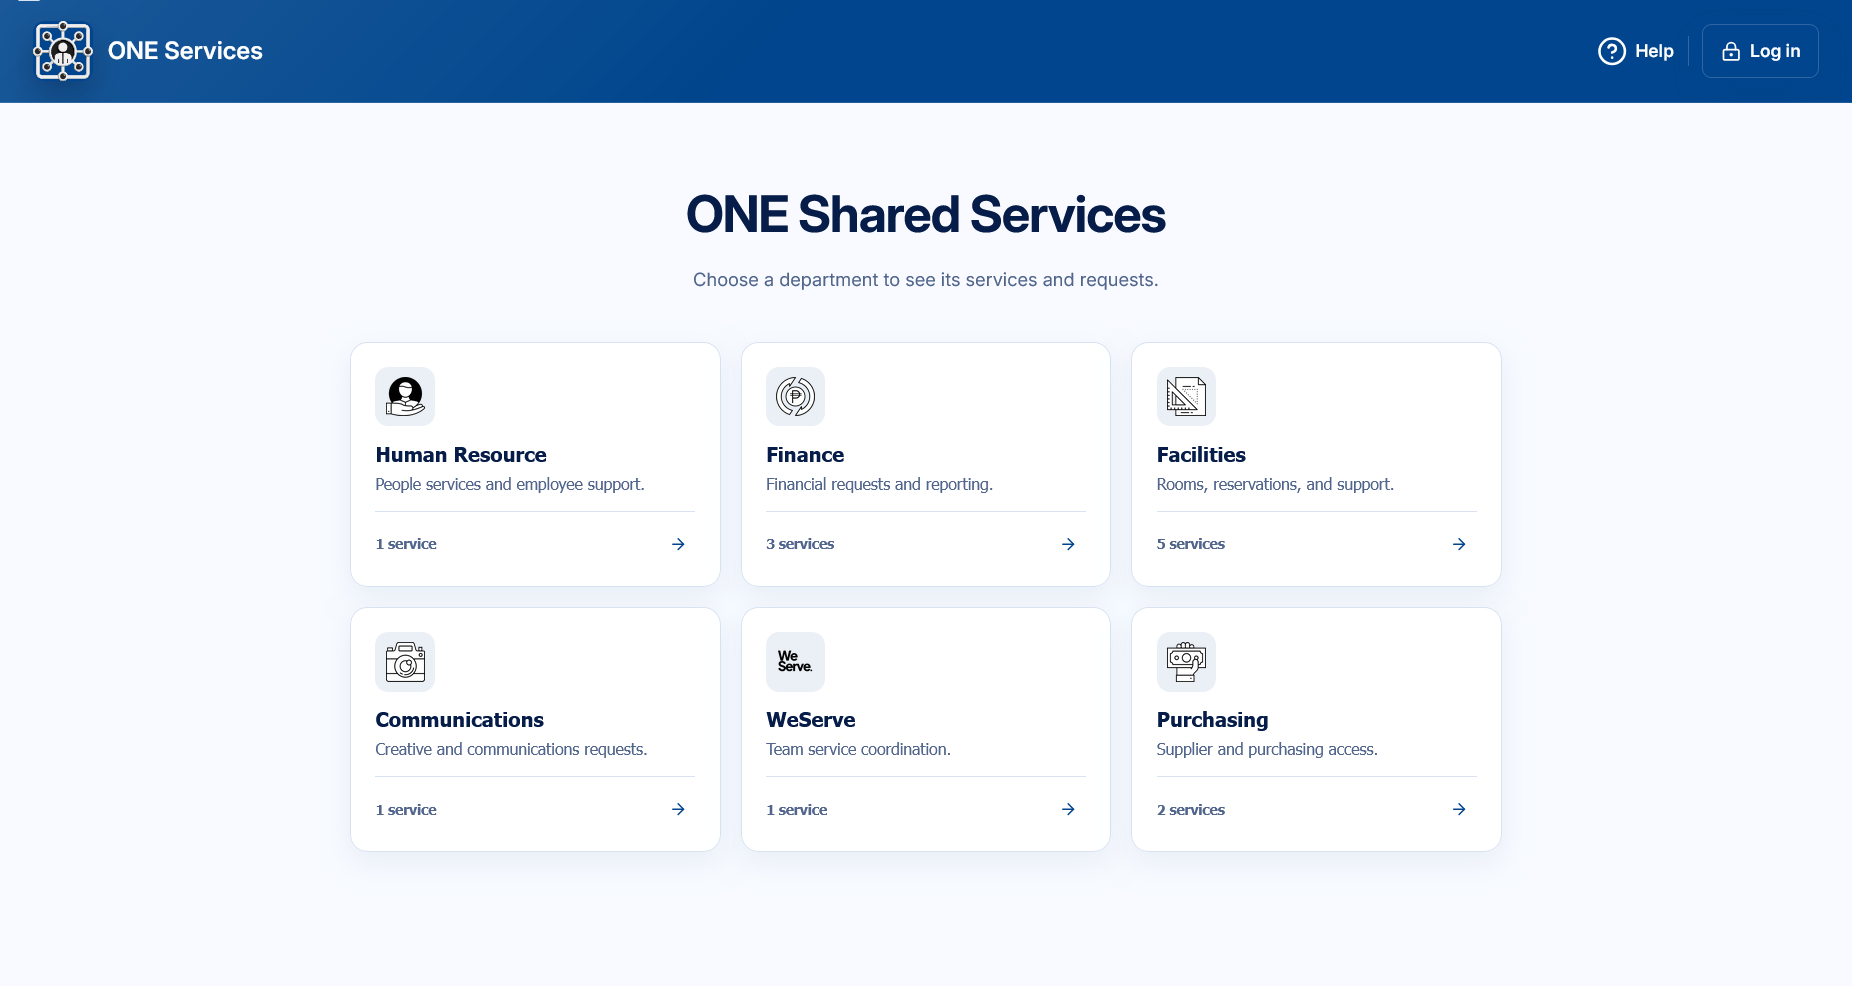
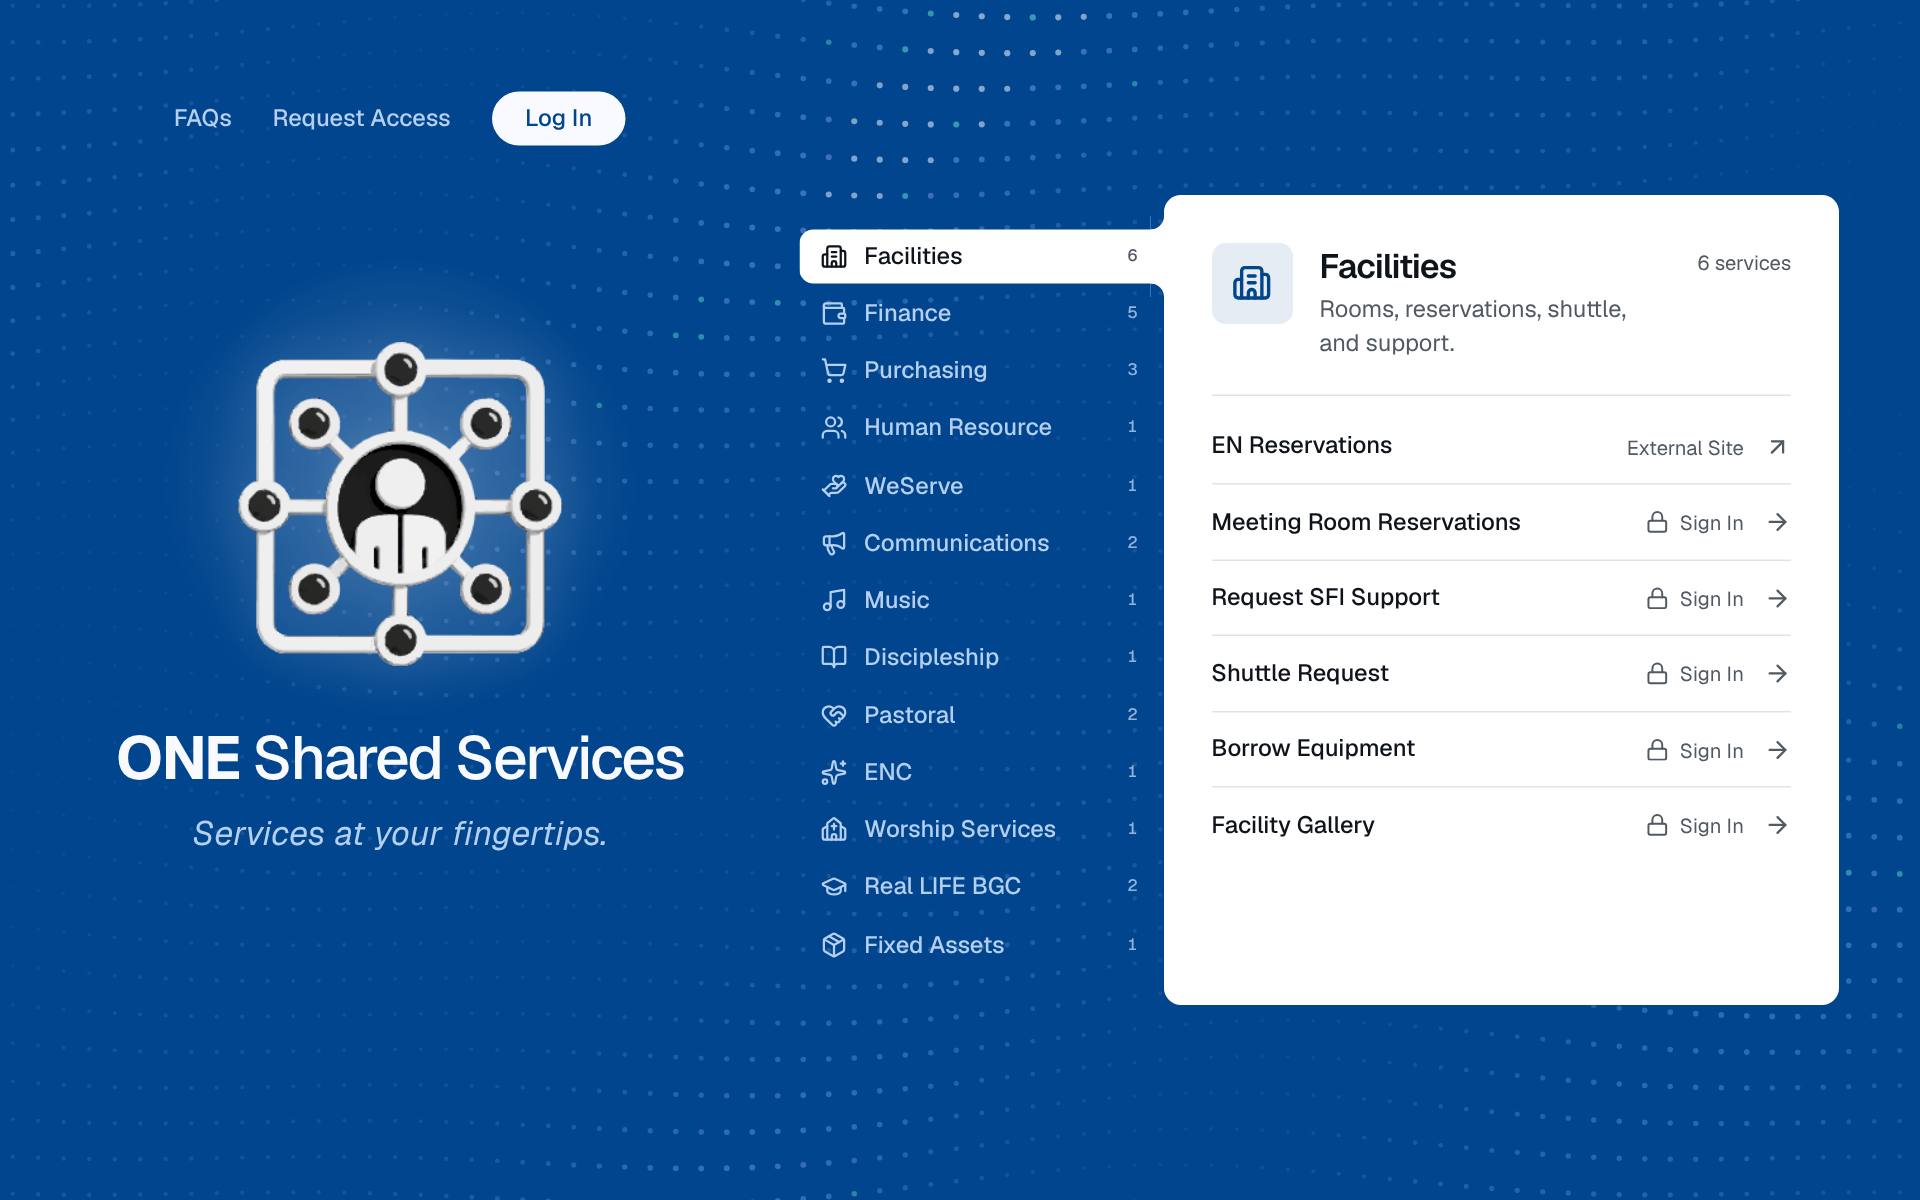
add photos and revamp ui

diff --git a/css/sections.css b/css/sections.css
@@ -131,26 +131,28 @@
   margin-top: 1.5rem;
   flex-shrink: 0;
 }
-/* Flat stats separated by vertical dividers (no card chrome) */
-.stat-grid { gap: 1.75rem 0; margin-top: 0; grid-template-columns: repeat(5, auto); justify-content: space-between; }
-.stat-grid .stat-card { background: none; border: 0; border-radius: 0; box-shadow: none; transform: none; padding: 0 1.25rem; border-left: 1px solid var(--border); }
-.stat-grid .stat-card:nth-child(1) { border-left: 0; padding-left: 0; }
+/* Flat stats, no dividers or card chrome: even gaps separate them (same look as Skills) */
+.stat-grid { gap: 1.75rem 2rem; margin-top: 0; grid-template-columns: repeat(5, auto); justify-content: space-between; }
+.stat-grid .stat-card { background: none; border: 0; border-radius: 0; box-shadow: none; transform: none; padding: 0; }
 .stat-grid .stat-card:hover { transform: none; box-shadow: none; }
 
 /* ════════════════════════════════════
    SKILLS
 ════════════════════════════════════ */
-.skill-group {
+/* Plain typographic columns: no cards, no dividers, no pills. A small label
+   over a vertical list of names. Tools & frameworks is the longest list, so it
+   gets two sub-columns. */
+.skill-cols {
   display: grid;
-  grid-template-columns: 11rem 1fr;
-  gap: 1rem 2rem;
+  grid-template-columns: 1fr 1fr 2fr 1.4fr;
+  gap: 2.5rem 2rem;
   align-items: start;
-  padding: 1.25rem 0;
-  border-top: 1px solid var(--border);
 }
 
-.skill-group:last-child {
-  border-bottom: 1px solid var(--border);
+.skill-group {
+  display: flex;
+  flex-direction: column;
+  gap: 1rem;
 }
 
 .skill-group-label {
@@ -160,20 +162,43 @@
   letter-spacing: var(--ls-normal);
   color: var(--muted);
   margin: 0;
-  padding-top: 0.35rem;
 }
 
 .skill-chips {
   display: flex;
-  flex-wrap: wrap;
-  gap: 0.6rem;
+  flex-direction: column;
+  gap: 0.5rem;
 }
 
-.skill-chips .chip:hover {
+.skill-tools .skill-chips {
+  display: grid;
+  grid-auto-flow: column;
+  grid-template-rows: repeat(6, auto);
+  gap: 0.5rem 2rem;
+}
+
+/* The names are still .chip elements (the entrance animation hangs off them),
+   but here they read as plain text. */
+.skill-chips .chip {
+  padding: 0;
+  border: 0;
+  border-radius: 0;
+  background: none;
+  font-size: var(--fs-lg);
+  letter-spacing: var(--ls-normal);
+  line-height: 1.35;
+}
+
+.skill-group.chipped .skill-chips .chip:hover {
+  background: none;
   color: var(--text);
-  border-color: var(--muted);
-  background: color-mix(in oklab, var(--text) 6%, var(--surface));
-  transform: translateY(-2px);
+  transform: translateX(3px);
+}
+
+@media (max-width: 900px) {
+  .skill-cols { grid-template-columns: 1fr 1fr; }
+  .skill-tools,
+  .skill-learn { grid-column: 1 / -1; }
 }
 
 .proj-tags {
@@ -357,12 +382,9 @@
   .contact-wrap   { grid-template-columns: 1fr; }
   .stat-grid      { grid-template-columns: 1fr 1fr; }
   .stat-grid .stat-card,
-  .stat-grid .stat-card:nth-child(n+4) { grid-column: auto; border-left: 1px solid var(--border); padding-left: 1.25rem; }
-  .stat-grid .stat-card:nth-child(odd) { border-left: 0; padding-left: 0; }
+  .stat-grid .stat-card:nth-child(n+4) { grid-column: auto; padding-left: 0; }
   .stat-grid .stat-card:last-child { grid-column: 1 / -1; }
   .social-grid    { grid-template-columns: 1fr; }
-  .skill-group    { grid-template-columns: 1fr; gap: 0.75rem; }
-  .skill-group-label { padding-top: 0; }
   .hero-name      { font-size: clamp(var(--fs-4xl), 12vw, var(--fs-6xl)); }
   .about-photo-wrap { max-width: 300px; margin: 0 auto; }
 }
@@ -1616,7 +1638,7 @@ display: flex;
 
 .pp-sub { margin-top: clamp(4rem, 7vw, 6rem); }
 .pp-grid { display: grid; grid-template-columns: repeat(3, 1fr); gap: 1.5rem; }
-.pp-card { display: flex; flex-direction: column; text-align: left; background: var(--pp-card); color: var(--text); border: 1px solid var(--pp-line); border-radius: var(--radius-xl); padding: 0; overflow: hidden; cursor: pointer; transition: transform 0.2s ease; }
+.pp-card { display: flex; flex-direction: column; text-align: left; background: var(--pp-card); color: var(--text); border: 0; box-shadow: 0 2px 2px rgba(0,0,0,0.1); border-radius: var(--radius-xl); padding: 0; overflow: hidden; cursor: pointer; transition: transform 0.2s ease; }
 .pp-card:hover { transform: translateY(-4px); }
 .pp-card-img { display: block; width: 100%; aspect-ratio: 16 / 10; object-fit: cover; }
 .pp-card-title { display: flex; align-items: center; justify-content: center; text-align: center; padding: 1rem; font-size: var(--fs-2xl); line-height: 1.2; letter-spacing: var(--ls-tight); border-bottom: 1px solid var(--pp-line); }
@@ -1650,6 +1672,10 @@ display: flex;
 .pp-d-rgrid div { border-top: 1px solid var(--pp-line); padding-top: 1rem; font-size: var(--fs-xl); line-height: 1.5; color: var(--text); }
 .pp-d-shots { margin-top: 4rem; display: grid; grid-template-columns: repeat(2, 1fr); gap: 1.5rem; }
 .pp-d-shots img { width: 100%; border-radius: var(--radius-md); display: block; cursor: zoom-in; border: 1px solid var(--pp-line); }
+.pp-d-shots-m { margin-top: 1.5rem; grid-template-columns: repeat(4, 1fr); }
+.pp-d-video { margin-top: 4rem; aspect-ratio: 16 / 9; border-radius: var(--radius-md); overflow: hidden; border: 1px solid var(--pp-line); }
+.pp-d-video iframe { width: 100%; height: 100%; border: 0; display: block; }
+.pp-d-video + .pp-d-shots { margin-top: 1.5rem; }
 
 #ppLightbox { position: fixed; inset: 0; z-index: 9500; background: color-mix(in srgb, var(--bg) 92%, transparent); display: none; align-items: center; justify-content: center; }
 #ppLightbox.open { display: flex; }
@@ -1666,5 +1692,6 @@ display: flex;
   .pp-row { grid-template-columns: 1fr; }
   .pp-row-text { order: 2; padding-right: 0; }
   .pp-grid, .pp-d-rgrid, .pp-d-shots { grid-template-columns: 1fr; }
+  .pp-d-shots-m { grid-template-columns: repeat(2, 1fr); }
   .pp-d-wrap { padding: 1.25rem 1.25rem 4rem; }
 }

diff --git a/js/projects-data.js b/js/projects-data.js
@@ -42,21 +42,7 @@ window.PROJECTS = [
       'I delivered 10+ admin console screens in Blade and CSS, replacing Teams and spreadsheet request tracking, and developed the shared layout and sidebar used by every console page in a multi-developer team. I also contributed workflow improvements to a codebase with RBAC, immutable audit logs, and real-time notifications.'
     ],
     results: ['10+ admin console screens delivered', 'Replaced Teams and spreadsheet request tracking', 'Shared layout used by every console page', 'Six departments in one system'],
-    images: ['assets/images/projects/one-shared-services.png']
-  },
-  {
-    id: 'plp-admissions-enrollment', kind: 'featured', title: 'PLP Admissions & Enrollment',
-    summary: 'Two connected systems that take applicants from document submission to Certificate of Registration (COR) issuance.',
-    overview: 'Admissions feeds admitted applicants to Enrollment over secure HTTPS intake.',
-    role: 'Designer and developer',
-    services: ['System design', 'Admissions module', 'Enrollment module', 'Role-based access control'],
-    stack: ['PHP', 'Next.js', 'Mantine', 'Supabase'],
-    about: [
-      'Admissions covers document verification, an exam builder and scheduler, interview room and queue management, and automated access and password generation, with RBAC for Admin, SSO, Deans, Professors, and Proctors.',
-      'Enrollment (Next.js, Mantine, Supabase) takes in admitted applicants over HTTPS, numbers students automatically, schedules sections and professors, handles mass reschedules and optional payment clearance, and issues the COR, with RBAC for Registrar, Finance, Dean, College Secretary, Professors, and Admin.'
-    ],
-    results: ['Applicant to COR in two connected systems', 'Automatic student numbering', 'Mass reschedules and optional payment clearance'],
-    images: []
+    images: ['assets/images/projects/one-shared-services.png','assets/images/projects/one-shared-services-2.png','assets/images/projects/one-shared-services-3.png','assets/images/projects/one-shared-services-4.png','assets/images/projects/one-shared-services-5.png','assets/images/projects/one-shared-services-6.png','assets/images/projects/one-shared-services-7.png','assets/images/projects/one-shared-services-8.png']
   },
   {
     id: 'abtcms', kind: 'featured', title: 'Animal Bite Treatment Center MS',
@@ -73,12 +59,27 @@ window.PROJECTS = [
     images: ['assets/images/projects/abtcms.png','assets/images/projects/abtcms-2.png','assets/images/projects/abtcms-3.png','assets/images/projects/abtcms-4.png']
   },
   {
+    id: 'plp-admissions-enrollment', kind: 'featured', title: 'PLP Enrollment & Admissions',
+    summary: 'Two connected systems that take applicants from document submission to Certificate of Registration (COR) issuance.',
+    overview: 'Enrollment takes in admitted applicants from Admissions over secure HTTPS intake.',
+    role: 'Designer and developer',
+    services: ['System design', 'Enrollment module', 'Admissions module', 'Role-based access control'],
+    stack: ['Next.js', 'Mantine', 'Supabase', 'PHP'],
+    about: [
+      'Enrollment (Next.js, Mantine, Supabase) takes in admitted applicants over HTTPS, numbers students automatically, schedules sections and professors, handles mass reschedules and optional payment clearance, and issues the COR, with RBAC for Registrar, Finance, Dean, College Secretary, Professors, and Admin.',
+      'Admissions covers document verification, an exam builder and scheduler, interview room and queue management, and automated access and password generation, with RBAC for Admin, SSO, Deans, Professors, and Proctors.'
+    ],
+    results: ['Applicant to COR in two connected systems', 'Automatic student numbering', 'Mass reschedules and optional payment clearance'],
+    video: '1_DgrRKbr7j23cMvx_WhXi8mPIq9Zo9K7',
+    images: ['assets/images/projects/plp-enrollment-1.png','assets/images/projects/plp-enrollment-2.png','assets/images/projects/plp-enrollment-3.png','assets/images/projects/plp-enrollment-4.png','assets/images/projects/plp-admissions-1.png','assets/images/projects/plp-admissions-2.png','assets/images/projects/plp-admissions-3.png','assets/images/projects/plp-admissions-4.png','assets/images/projects/plp-admissions-5.png']
+  },
+  {
     id: 'amkor-ims', kind: 'grid', title: 'Amkor IMS Prototype', metric: 'Laravel · React',
     summary: 'An internal management system prototype for Amkor Travel & Tours covering 20 modules across two branches.',
     role: 'Designer and developer', services: ['System design', 'RBAC', 'PDF generation'],
     stack: ['Laravel', 'React', 'Inertia', 'PostgreSQL', 'Laravel Reverb'],
     about: ['RBAC for 17 roles, audit trails, and real-time notifications. Modules include reservations, visa processing, accounts payable and receivable, disbursements, attendance, leave, and overtime, with PDF generation from official templates.'],
-    results: ['20 modules across two branches', 'RBAC for 17 roles', 'PDFs generated from official templates'], images: []
+    results: ['20 modules across two branches', 'RBAC for 17 roles', 'PDFs generated from official templates'], images: ['assets/images/projects/amkor-ims-1.png','assets/images/projects/amkor-ims-2.png','assets/images/projects/amkor-ims-3.png','assets/images/projects/amkor-ims-4.png','assets/images/projects/amkor-ims-5.png','assets/images/projects/amkor-ims-6.png','assets/images/projects/amkor-ims-7.png','assets/images/projects/amkor-ims-8.png','assets/images/projects/amkor-ims-9.png']
   },
   {
     id: 'pillar', kind: 'grid', title: 'Pillar', metric: 'Laravel · Livewire',

diff --git a/js/projects.js b/js/projects.js
@@ -63,13 +63,35 @@
         </aside>
       </div>
       ${p.results && p.results.length ? `<div class="pp-d-results"><h3>Key results and outcomes</h3><div class="pp-d-rgrid">${p.results.map(r => `<div>${esc(r)}</div>`).join('')}</div></div>` : ''}
-      ${p.images && p.images.length ? `<div class="pp-d-shots">${p.images.map((src, i) => `<img src="${esc(src)}" alt="${esc(p.title)} screenshot ${i + 1}" data-shot="${i}" loading="lazy" />`).join('')}</div>` : ''}
+      ${p.video ? `<div class="pp-d-video"><iframe src="https://drive.google.com/file/d/${encodeURIComponent(p.video)}/preview" title="${esc(p.title)} video" allow="autoplay; fullscreen" allowfullscreen loading="lazy"></iframe></div>` : ''}
+      ${p.images && p.images.length ? `<div class="pp-d-shots">${p.images.map((src, i) => `<img src="${esc(src)}" alt="${esc(p.title)} screenshot ${i + 1}" data-shot="${i}" />`).join('')}</div>` : ''}
     </div>`;
     ov.classList.add('open');
     ov.scrollTop = 0;
     document.body.style.overflow = 'hidden';
     ov.querySelector('#ppClose').addEventListener('click', closeDetail);
     ov.querySelectorAll('[data-shot]').forEach(img => img.addEventListener('click', () => openLb(p.images, +img.dataset.shot)));
+    groupShots(ov.querySelector('.pp-d-shots'));
+  }
+  /* Phone (portrait) screenshots go in their own row of four, so they stay about as tall as the desktop ones. */
+  function groupShots(wrap) {
+    if (!wrap) return;
+    const shots = [...wrap.querySelectorAll('img')];
+    let left = shots.length;
+    const done = () => {
+      if (--left) return;
+      const tall = shots.filter(i => i.naturalHeight > i.naturalWidth);
+      if (!tall.length) return;
+      if (tall.length === shots.length) { wrap.classList.add('pp-d-shots-m'); return; }
+      const m = document.createElement('div');
+      m.className = 'pp-d-shots pp-d-shots-m';
+      tall.forEach(i => m.appendChild(i));
+      wrap.after(m);
+    };
+    shots.forEach(i => {
+      if (i.complete && i.naturalWidth) done();
+      else { i.addEventListener('load', done, { once: true }); i.addEventListener('error', done, { once: true }); }
+    });
   }
   function closeDetail() { ov.classList.remove('open'); document.body.style.overflow = ''; }
 

diff --git a/index.html b/index.html
@@ -138,7 +138,8 @@
     <section id="skills">
       <p class="section-label">Skills</p>
 
-      <div class="skill-group fade-up">
+      <div class="skill-cols">
+      <div class="skill-group skill-langs fade-up">
         <p class="skill-group-label">Languages</p>
         <div class="skill-chips">
           <span class="chip">C#</span>
@@ -150,7 +151,7 @@
           <span class="chip">HTML / CSS</span>
         </div>
       </div>
-      <div class="skill-group fade-up" style="transition-delay: .1s">
+      <div class="skill-group skill-db fade-up" style="transition-delay: .1s">
         <p class="skill-group-label">Databases</p>
         <div class="skill-chips">
           <span class="chip">PostgreSQL</span>
@@ -158,7 +159,7 @@
           <span class="chip">SQLite</span>
         </div>
       </div>
-      <div class="skill-group fade-up" style="transition-delay: .2s">
+      <div class="skill-group skill-tools fade-up" style="transition-delay: .2s">
         <p class="skill-group-label">Tools & frameworks</p>
         <div class="skill-chips">
           <span class="chip">.NET / WPF</span>
@@ -174,13 +175,14 @@
           <span class="chip">Linux</span>
         </div>
       </div>
-      <div class="skill-group fade-up" style="transition-delay: .3s">
+      <div class="skill-group skill-learn fade-up" style="transition-delay: .3s">
         <p class="skill-group-label">Currently learning</p>
         <div class="skill-chips">
           <span class="chip learning">Cloud Infrastructure</span>
           <span class="chip learning">Secure DB Connectivity</span>
           <span class="chip learning">Machine Learning</span>
         </div>
+      </div>
       </div>
     </section>
 

diff --git a/css/components.css b/css/components.css
@@ -165,14 +165,10 @@
 /* ── Photo frame — clean rounded square, monochrome border ── */
 .hud-box {
   position: relative;
-  border: 1px solid var(--border);
+  border: 0;
+  box-shadow: 0 2px 2px rgba(0,0,0,0.1);
   border-radius: var(--radius-xl);
   overflow: hidden;
-  transition: border-color 0.2s ease;
-}
-
-.hud-box:hover {
-  border-color: var(--muted);
 }
 
 .hud-box .hud-inner {
